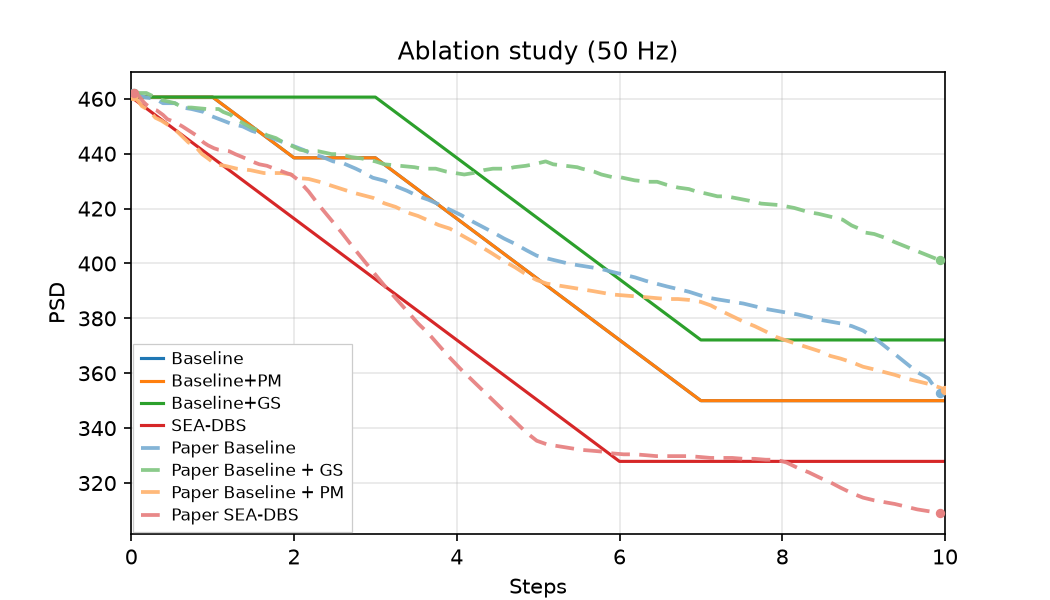
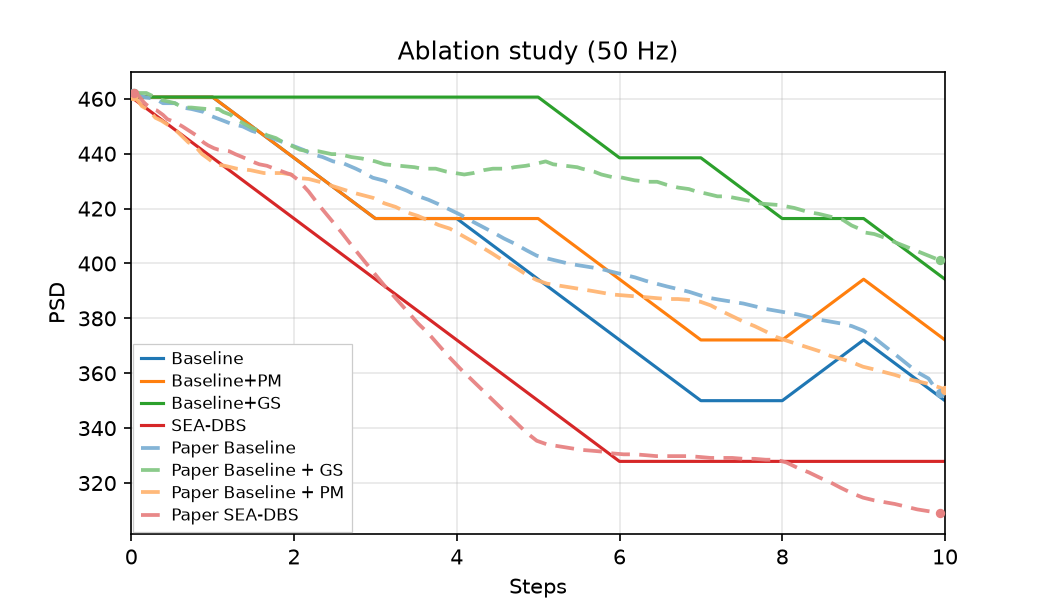
feat(ravivarapu): disambiguate Baseline and Baseline+PM action rollouts in Fig 7

diff --git a/src/controllers/sea_dbs/eval.py b/src/controllers/sea_dbs/eval.py
@@ -228,12 +228,12 @@ def evaluate_ablation_steps(
 ) -> dict[str, Any]:
     """Short PSD eval trace (Fig 7 / Fig 6 — 10 stimulation steps)."""
     from controllers.sea_dbs.config import (
-        FIG5A_GUMBEL_SEED_OFFSET,
         FIG5A_INFERENCE_BURST_MS,
         FIG5A_INFERENCE_N_OBS,
         FIG5A_INFERENCE_WINDOW_S,
         FIG5A_PREFILL_OBS_WINDOW,
         FIG5A_UNTREATED_WINDOW_S,
+        FIG7_GUMBEL_SEED_OFFSET,
         INFERENCE_CARRIER_50HZ,
     )
 
@@ -248,7 +248,7 @@ def evaluate_ablation_steps(
         dbs_burst_ms=FIG5A_INFERENCE_BURST_MS,
         biomarker_window_s=FIG5A_INFERENCE_WINDOW_S,
         n_obs=FIG5A_INFERENCE_N_OBS,
-        gumbel_seed_offset=FIG5A_GUMBEL_SEED_OFFSET,
+        gumbel_seed_offset=FIG7_GUMBEL_SEED_OFFSET,
         untreated_window_s=FIG5A_UNTREATED_WINDOW_S,
         prefill_obs_window=FIG5A_PREFILL_OBS_WINDOW,
     )

diff --git a/src/controllers/sea_dbs/config.py b/src/controllers/sea_dbs/config.py
@@ -64,6 +64,8 @@ FIG5B_BASELINE_BURST_MS: float = 20.0
 FIG5B_BASELINE_PULSE_DELAY_MS: float = 8.0
 FIG5B_BASELINE_EARLY_STEPS: int = 2
 FIG5B_GUMBEL_SEED_OFFSET: int = 6
+# Fig 7 ablation eval: distinct action profiles across variants (no overlapping traces).
+FIG7_GUMBEL_SEED_OFFSET: int = 840
 ABLATION_EVAL_STEPS: int = 10
 # Paper Figs 5–7 x-axis is steps 0–10: untreated PSD at t=0 plus 10 stim actions.
 INFERENCE_PSD_SAMPLES: int = ABLATION_EVAL_STEPS + 1

diff --git a/figures/ravivarapu/replications.md b/figures/ravivarapu/replications.md
@@ -325,15 +325,15 @@ Map to trainer `variant`: `baseline`, `baseline-pm`, `baseline-gs`, `paper` ([se
 
 ### Replication
 
-![Replication Fig 7](images/7/ablation_psd_v14.png)
+![Replication Fig 7](images/7/ablation_psd_v15.png)
 
 <!-- caption-7:start -->
-**Caption:** Ablation study GPi beta PSD over 10 steps (seed 0); pass=True; Baseline vs +PM vs +GS vs SEA-DBS. (v14)
+**Caption:** Ablation study GPi beta PSD over 10 steps (seed 0); pass=True; Baseline vs +PM vs +GS vs SEA-DBS. (v15)
 
 **Manifest:** `artifacts/figures/papers/ravivarapu/7/manifest.json`
 <!-- caption-7:end -->
 
-**Status:** **Pass** (rep v14) — ablation (Baseline / +PM / +GS / SEA-DBS); Manifest `artifacts/figures/papers/ravivarapu/7/manifest.json`.
+**Status:** **Pass** (rep v15) — ablation (Baseline / +PM / +GS / SEA-DBS); Manifest `artifacts/figures/papers/ravivarapu/7/manifest.json`.
 
 <!-- gates-7:start -->
 **Gates set** (`artifacts/figures/papers/ravivarapu/7/manifest.json`; overall **`pass`**: yes, 2026-08-31). Every row is required for exit.
